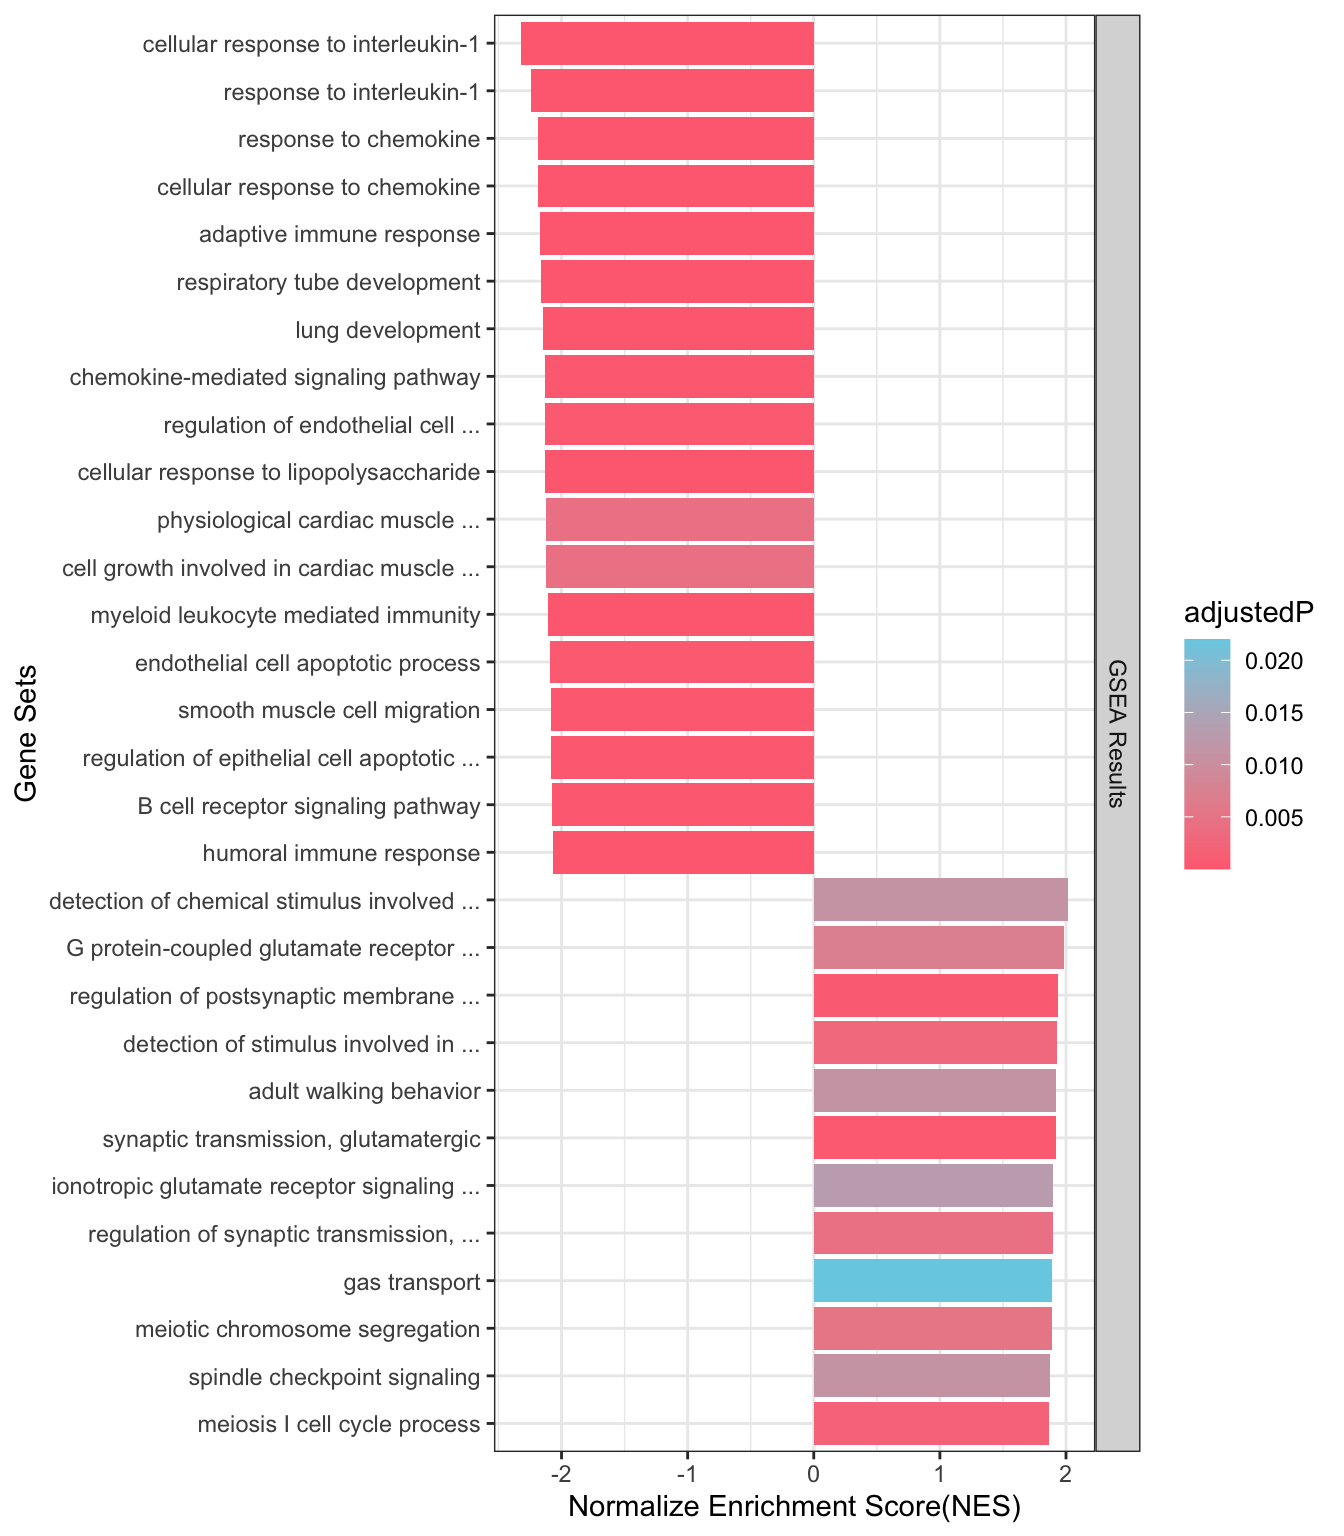
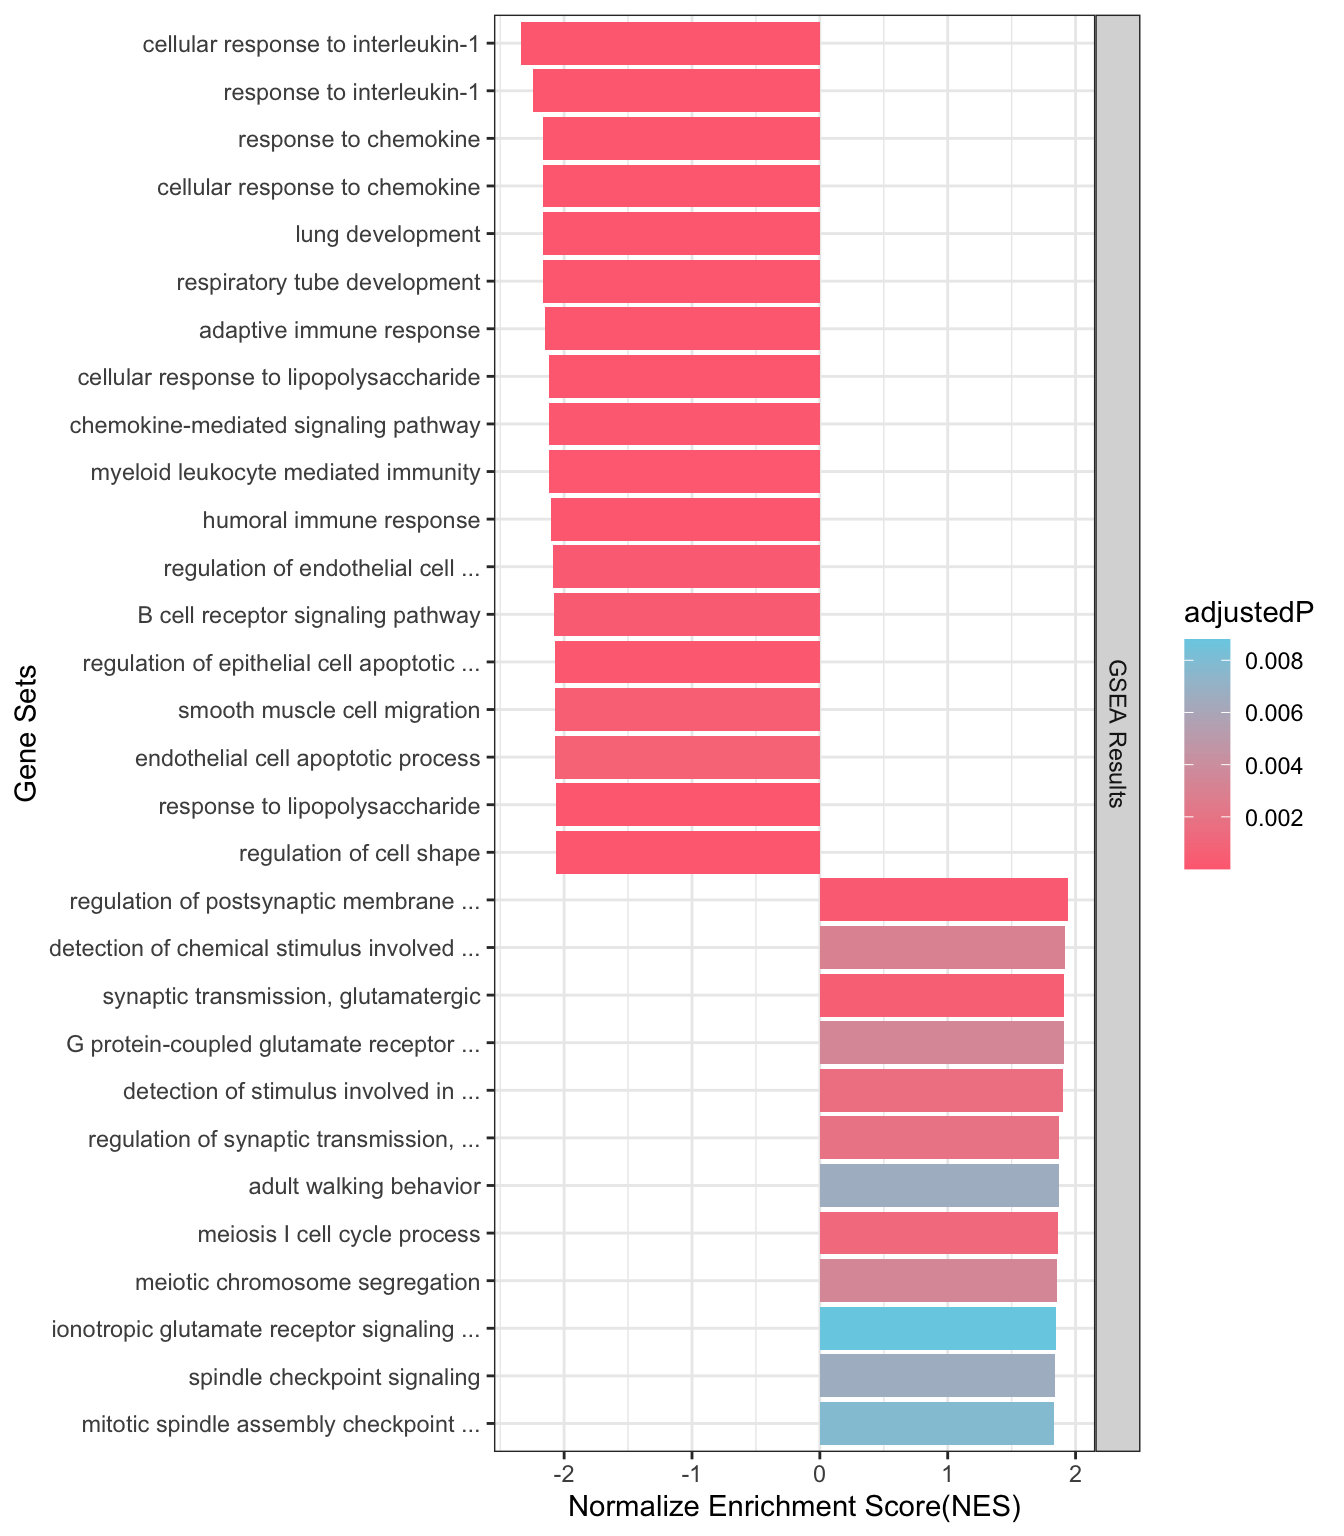
perhaps final docs

diff --git a/_site/index.html b/_site/index.html
@@ -358,6 +358,7 @@ What is EnrichGT?
 </div>
 </div>
 <p><sup>The&nbsp;functions&nbsp;from&nbsp;EnrichGT&nbsp;are&nbsp;starting&nbsp;with&nbsp;“egt_”&nbsp;or&nbsp;“database_”.</sup></p>
+<p>After version 0.7.0 (2024-12-24), EnrichGT would be entering supported mode and perhaps without adding new functions. We want to keep this package lightweight with limited functions. If you need a tool that handles every detail, please use <strong><em>clusterProfiler</em></strong> instead. See <a href="#acknowledgement">Acknowledgement</a> for details.</p>
 </section>
 <section id="install-enrichgt" class="level1">
 <h1>Install EnrichGT</h1>
@@ -439,10 +440,10 @@ The difference from other tools
 <pre><code></code></pre>
 </div>
 <div class="cell-output cell-output-stderr">
-<pre><code>✔ success loaded database, time used : 18.4080669879913 sec.</code></pre>
+<pre><code>✔ success loaded database, time used : 17.9219570159912 sec.</code></pre>
 </div>
 <div class="cell-output cell-output-stderr">
-<pre><code>✔ Done ORA in 0.136178970336914 sec.</code></pre>
+<pre><code>✔ Done ORA in 0.138438940048218 sec.</code></pre>
 </div>
 <div class="sourceCode cell-code" id="cb10"><pre class="sourceCode r code-with-copy"><code class="sourceCode r"><span id="cb10-1"><a href="#cb10-1" aria-hidden="true" tabindex="-1"></a>ora_result <span class="sc">|&gt;</span> <span class="fu">as_tibble</span>() <span class="co"># You don't need to call as_tibble, this is just for better printing</span></span></code><button title="Copy to Clipboard" class="code-copy-button"><i class="bi"></i></button></pre></div>
 <div class="cell-output cell-output-stdout">
@@ -479,6 +480,7 @@ Have many sources of genes?
 <span id="cb12-4"><a href="#cb12-4" aria-hidden="true" tabindex="-1"></a> <span class="at">database =</span> <span class="fu">database_from_gmt</span>(<span class="st">"panglaoDB.gmt"</span>))</span></code><button title="Copy to Clipboard" class="code-copy-button"><i class="bi"></i></button></pre></div>
 </div>
 </div>
+<p>For visualize, see <a href="#ploting-ora-result">Ploting ORA result</a> for details.</p>
 </section>
 <section id="enrichment-of-weighted-genes-gsea" class="level3">
 <h3 class="anchored" data-anchor-id="enrichment-of-weighted-genes-gsea">Enrichment of weighted genes (GSEA)</h3>
@@ -512,24 +514,24 @@ How to build pre-ranked gene set?
 The order of those tied genes will be arbitrary, which may produce unexpected results.</code></pre>
 </div>
 <div class="cell-output cell-output-stderr">
-<pre><code>✔ Sucessful GSEA, time last 8.32670998573303 secs.</code></pre>
+<pre><code>✔ Sucessful GSEA, time last 8.16707611083984 secs.</code></pre>
 </div>
 <div class="sourceCode cell-code" id="cb17"><pre class="sourceCode r code-with-copy"><code class="sourceCode r"><span id="cb17-1"><a href="#cb17-1" aria-hidden="true" tabindex="-1"></a>resGSEA <span class="sc">|&gt;</span> <span class="fu">as_tibble</span>() <span class="co"># You don't need to call as_tibble, this is just for better printing</span></span></code><button title="Copy to Clipboard" class="code-copy-button"><i class="bi"></i></button></pre></div>
 <div class="cell-output cell-output-stdout">
-<pre><code># A tibble: 3,920 × 7
+<pre><code># A tibble: 3,823 × 7
    ID         Description              ES   NES  pvalue p.adjust core_enrichment
    &lt;chr&gt;      &lt;chr&gt;                 &lt;dbl&gt; &lt;dbl&gt;   &lt;dbl&gt;    &lt;dbl&gt; &lt;chr&gt;          
- 1 GO:0050907 detection of chemica… 0.767  2.02 6.91e-4 0.0111   OR51E1/CST1/OR…
- 2 GO:0007216 G protein-coupled gl… 0.840  1.98 3.79e-4 0.00717  GRIK3/GRM1/GRM…
- 3 GO:0060078 regulation of postsy… 0.564  1.94 1.88e-5 0.000632 GRIK3/HCN1/GRM…
- 4 GO:0050906 detection of stimulu… 0.594  1.93 1.23e-4 0.00311  OR51E1/CST1/OR…
- 5 GO:0007628 adult walking behavi… 0.717  1.92 7.00e-4 0.0112   ZIC1/CNTN2/CAC…
- 6 GO:0035249 synaptic transmissio… 0.560  1.92 1.51e-5 0.000536 GRIK3/UNC13C/G…
- 7 GO:0035235 ionotropic glutamate… 0.718  1.90 9.10e-4 0.0135   GRIK3/GRIA4/GR…
- 8 GO:0051966 regulation of synapt… 0.581  1.89 1.78e-4 0.00425  GRIK3/GRM1/CAC…
- 9 GO:0015669 gas transport         0.800  1.89 1.89e-3 0.0219   NGB/MB/RHBG/HB…
-10 GO:0045132 meiotic chromosome s… 0.587  1.89 2.40e-4 0.00515  SPATA22/KASH5/…
-# ℹ 3,910 more rows</code></pre>
+ 1 GO:0060078 regulation of postsy… 0.564  1.94 6.34e-6 0.000240 GRIK3/HCN1/GRM…
+ 2 GO:0050907 detection of chemica… 0.767  1.92 1.32e-4 0.00301  OR51E1/CST1/OR…
+ 3 GO:0035249 synaptic transmissio… 0.560  1.91 1.70e-5 0.000562 GRIK3/UNC13C/G…
+ 4 GO:0007216 G protein-coupled gl… 0.840  1.91 1.58e-4 0.00342  GRIK3/GRM1/GRM…
+ 5 GO:0050906 detection of stimulu… 0.594  1.90 6.25e-5 0.00164  OR51E1/CST1/OR…
+ 6 GO:0051966 regulation of synapt… 0.581  1.87 7.54e-5 0.00193  GRIK3/GRM1/CAC…
+ 7 GO:0007628 adult walking behavi… 0.717  1.87 3.85e-4 0.00657  ZIC1/CNTN2/CAC…
+ 8 GO:0061982 meiosis I cell cycle… 0.553  1.86 4.32e-5 0.00124  SPATA22/KASH5/…
+ 9 GO:0045132 meiotic chromosome s… 0.587  1.86 1.55e-4 0.00339  SPATA22/KASH5/…
+10 GO:0035235 ionotropic glutamate… 0.718  1.84 5.92e-4 0.00882  GRIK3/GRIA4/GR…
+# ℹ 3,813 more rows</code></pre>
 </div>
 </div>
 <p>Other kind of weights, like the loading from PCA or NMF, or the importance of random forest, can be also used.</p>
@@ -537,6 +539,7 @@ The order of those tied genes will be arbitrary, which may produce unexpected re
 <span id="cb19-2"><a href="#cb19-2" aria-hidden="true" tabindex="-1"></a>                                                    <span class="at">weights =</span>PCA_res<span class="sc">$</span>PC1_loading),</span>
 <span id="cb19-3"><a href="#cb19-3" aria-hidden="true" tabindex="-1"></a>                         <span class="at">database =</span> <span class="fu">database_from_gmt</span>(<span class="st">"MsigDB_Hallmark.gmt"</span>)</span>
 <span id="cb19-4"><a href="#cb19-4" aria-hidden="true" tabindex="-1"></a>                         )</span></code><button title="Copy to Clipboard" class="code-copy-button"><i class="bi"></i></button></pre></div>
+<p>For visualize, see <a href="#ploting-gsea-result">Ploting GSEA result</a> for details.</p>
 </section>
 </section>
 <section id="re-enrich-function" class="level2">
@@ -716,22 +719,22 @@ TF infering Example:
 <pre><code>✔ success loaded self-contained database</code></pre>
 </div>
 <div class="cell-output cell-output-stderr">
-<pre><code>✔ Done ORA in 0.0166618824005127 sec.</code></pre>
+<pre><code>✔ Done ORA in 0.0144979953765869 sec.</code></pre>
 </div>
 <div class="cell-output cell-output-stderr">
-<pre><code>✔ Done ORA in 0.0144469738006592 sec.</code></pre>
+<pre><code>✔ Done ORA in 0.0141808986663818 sec.</code></pre>
 </div>
 <div class="cell-output cell-output-stderr">
-<pre><code>✔ Done ORA in 0.0165109634399414 sec.</code></pre>
+<pre><code>✔ Done ORA in 0.0157899856567383 sec.</code></pre>
 </div>
 <div class="cell-output cell-output-stderr">
-<pre><code>✔ Done ORA in 0.0152719020843506 sec.</code></pre>
+<pre><code>✔ Done ORA in 0.0157608985900879 sec.</code></pre>
 </div>
 <div class="cell-output cell-output-stderr">
-<pre><code>✔ Done ORA in 0.0166521072387695 sec.</code></pre>
+<pre><code>✔ Done ORA in 0.0171198844909668 sec.</code></pre>
 </div>
 <div class="cell-output cell-output-stderr">
-<pre><code>✔ Done ORA in 0.0143299102783203 sec.</code></pre>
+<pre><code>✔ Done ORA in 0.0142068862915039 sec.</code></pre>
 </div>
 <div class="sourceCode cell-code" id="cb36"><pre class="sourceCode r code-with-copy"><code class="sourceCode r"><span id="cb36-1"><a href="#cb36-1" aria-hidden="true" tabindex="-1"></a><span class="fu">egt_plot_results</span>(TF_Act<span class="sc">$</span>Cluster_3)</span></code><button title="Copy to Clipboard" class="code-copy-button"><i class="bi"></i></button></pre></div>
 <div class="cell-output cell-output-stderr">
@@ -862,8 +865,8 @@ Important
 <section id="basic-result-plot" class="level3">
 <h3 class="anchored" data-anchor-id="basic-result-plot">Basic result plot</h3>
 <p>The Dot Plot provide basic viewing of results. So it supports both simple enrichment result <code>data.frame</code> and re-enriched <code>egt_object</code>.</p>
-<section id="ora" class="level4">
-<h4 class="anchored" data-anchor-id="ora">ORA</h4>
+<section id="ploting-ora-result" class="level4">
+<h4 class="anchored" data-anchor-id="ploting-ora-result">Ploting ORA result</h4>
 <div class="cell">
 <div class="sourceCode cell-code" id="cb46"><pre class="sourceCode r code-with-copy"><code class="sourceCode r"><span id="cb46-1"><a href="#cb46-1" aria-hidden="true" tabindex="-1"></a><span class="fu">egt_plot_results</span>(ora_result)</span></code><button title="Copy to Clipboard" class="code-copy-button"><i class="bi"></i></button></pre></div>
 <div class="cell-output cell-output-stderr">
@@ -881,8 +884,8 @@ Important
 </div>
 </div>
 </section>
-<section id="gsea" class="level4">
-<h4 class="anchored" data-anchor-id="gsea">GSEA</h4>
+<section id="ploting-gsea-result" class="level4">
+<h4 class="anchored" data-anchor-id="ploting-gsea-result">Ploting GSEA result</h4>
 <div class="cell">
 <div class="sourceCode cell-code" id="cb49"><pre class="sourceCode r code-with-copy"><code class="sourceCode r"><span id="cb49-1"><a href="#cb49-1" aria-hidden="true" tabindex="-1"></a><span class="fu">egt_plot_results</span>(resGSEA)</span></code><button title="Copy to Clipboard" class="code-copy-button"><i class="bi"></i></button></pre></div>
 <div class="cell-output cell-output-stderr">
@@ -900,8 +903,8 @@ Important
 </div>
 </div>
 </section>
-<section id="re-enrichment" class="level4">
-<h4 class="anchored" data-anchor-id="re-enrichment">re-enrichment</h4>
+<section id="ploting-re-enrichment-result" class="level4">
+<h4 class="anchored" data-anchor-id="ploting-re-enrichment-result">Ploting re-enrichment result</h4>
 <div class="cell">
 <div class="sourceCode cell-code" id="cb52"><pre class="sourceCode r code-with-copy"><code class="sourceCode r"><span id="cb52-1"><a href="#cb52-1" aria-hidden="true" tabindex="-1"></a><span class="fu">egt_plot_results</span>(re_enrich)</span></code><button title="Copy to Clipboard" class="code-copy-button"><i class="bi"></i></button></pre></div>
 <div class="cell-output-display">
@@ -920,7 +923,7 @@ Important
 <div class="cell">
 <div class="sourceCode cell-code" id="cb53"><pre class="sourceCode r code-with-copy"><code class="sourceCode r"><span id="cb53-1"><a href="#cb53-1" aria-hidden="true" tabindex="-1"></a><span class="fu">egt_plot_umap</span>(re_enrich)</span></code><button title="Copy to Clipboard" class="code-copy-button"><i class="bi"></i></button></pre></div>
 <div class="cell-output cell-output-stderr">
-<pre><code>Warning: ggrepel: 2 unlabeled data points (too many overlaps). Consider
+<pre><code>Warning: ggrepel: 19 unlabeled data points (too many overlaps). Consider
 increasing max.overlaps</code></pre>
 </div>
 <div class="cell-output-display">
@@ -1540,7 +1543,7 @@ window.document.addEventListener("DOMContentLoaded", function (event) {
       &nbsp;
     <div class="toc-actions d-sm-block d-md-none"><ul><li><a href="https://github.com/ZhimingYe/EnrichGT_website/edit/main/index.qmd" class="toc-action"><i class="bi bi-github"></i>Edit this page</a></li><li><a href="https://github.com/ZhimingYe/EnrichGT_website/blob/main/index.qmd" class="toc-action"><i class="bi empty"></i>View source</a></li><li><a href="https://github.com/ZhimingYe/EnrichGT_website/issues/new" class="toc-action"><i class="bi empty"></i>Report an issue</a></li></ul></div></div>
     <div class="nav-footer-right">
-<p>Corresponding to EnrichGT Version 0.6</p>
+<p>Corresponding to EnrichGT Version 0.7 LTS</p>
 </div>
   </div>
 </footer>

diff --git a/_site/pkgfuns.html b/_site/pkgfuns.html
@@ -1136,7 +1136,7 @@ window.document.addEventListener("DOMContentLoaded", function (event) {
       &nbsp;
     <div class="toc-actions d-sm-block d-md-none"><ul><li><a href="https://github.com/ZhimingYe/EnrichGT_website/edit/main/pkgfuns.qmd" class="toc-action"><i class="bi bi-github"></i>Edit this page</a></li><li><a href="https://github.com/ZhimingYe/EnrichGT_website/blob/main/pkgfuns.qmd" class="toc-action"><i class="bi empty"></i>View source</a></li><li><a href="https://github.com/ZhimingYe/EnrichGT_website/issues/new" class="toc-action"><i class="bi empty"></i>Report an issue</a></li></ul></div></div>
     <div class="nav-footer-right">
-<p>Corresponding to EnrichGT Version 0.6</p>
+<p>Corresponding to EnrichGT Version 0.7 LTS</p>
 </div>
   </div>
 </footer>

diff --git a/_site/preface.html b/_site/preface.html
@@ -592,7 +592,7 @@ window.document.addEventListener("DOMContentLoaded", function (event) {
       &nbsp;
     <div class="toc-actions"><ul><li><a href="https://github.com/ZhimingYe/EnrichGT_website/edit/main/preface.qmd" class="toc-action"><i class="bi bi-github"></i>Edit this page</a></li><li><a href="https://github.com/ZhimingYe/EnrichGT_website/blob/main/preface.qmd" class="toc-action"><i class="bi empty"></i>View source</a></li><li><a href="https://github.com/ZhimingYe/EnrichGT_website/issues/new" class="toc-action"><i class="bi empty"></i>Report an issue</a></li></ul></div></div>
     <div class="nav-footer-right">
-<p>Corresponding to EnrichGT Version 0.6</p>
+<p>Corresponding to EnrichGT Version 0.7 LTS</p>
 </div>
   </div>
 </footer>
